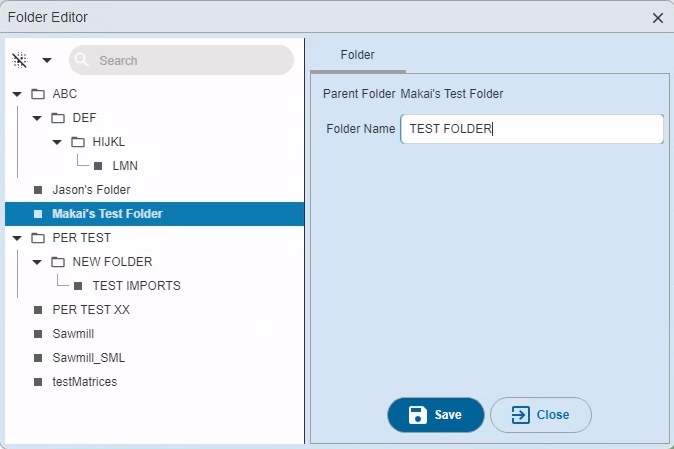
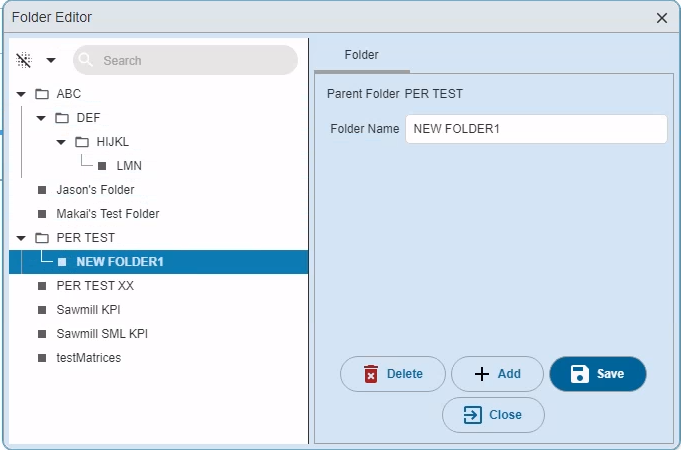
matrix review, edits, image changes

diff --git a/docs/kanoa-ops-analysis/kpi-matrix.md b/docs/kanoa-ops-analysis/kpi-matrix.md
@@ -11,22 +11,23 @@ The KPI Matrix functionality is a tool to provide insight to production KPIs.  T
 ![kpi-matrix](/img/kpi-matrix/KPIMatrixView.png)
 
 ## Login
-In upper right corner - click login icon.
-Use your ID and Password to log in to the application.
+To login, in the upper right corner - click the login icon.
+Use your ID and Password to login to the application.
 
 
 ![kpi-matrix](/img/kpi-matrix/UpperRightMenu.png)
 
 ### User Permissions
-Once logged in, you can hover over the login icon and see your current roles.
+Once logged in, you can hover over the login icon and see your current roles for the application.
 
 
 ![kpi-matrix](/img/kpi-matrix/MatrixPermissions.png)
 
 ### Logout
-Click the logout icon next to the login icon to log out of the application.
+Click the logout icon next to the login icon to logout of the application.
 
 ### Roles & Permissions
+The roles granted to the users of the application have different permissions. 
 
 #### Division Admin
 The Division Admin can view all matrices, both public and private. They can create, edit and delete their own matrices.
@@ -45,35 +46,34 @@ The Guest can only view public matrices.  They have no create, edit or delete pe
 ## Create and Edit a KPI Matrix
 
 ### Matrix Editor
-Open the left menu and click the Matrix Editor.  This will open a view to the Folder editor and the Matrix creator and editor.
+To create or edit a Matrix - start by open the left menu and click the Matrix Editor.  This will open a view to the Matrix editor.
 
-![kpi-matrix](/img/kpi-matrix/KPIMatrixView.png)
+![kpi-matrix](/img/kpi-matrix/KPIMatrixEditor.png)
+
 
 #### Folder Editor
-Open the folder editor by clicking the add folder icon (+) above folder structure. 
-In the folder editor - select folder to edit or the location of the new folder.  Click Add button to add a new folder.  
-Enter info - set folder name, color, Roles if applicable. Click Save button.
-Delete folders - select folder to delete, click Delete Icon.
-
-Drag drop a matrix from one folder to another.  Select the matrix, hold the left mouse button until it is in the desired folder and then  release the mouse button.
+Folders are managed in the Folder Editor - the user can create, edit and delete folders. Click the  + icon above the matrix tree structure for the pop-up window with the Folder Editor:
+- Add folder - in the Folder Editor, select the parent folder, click the Add button, enter the folder name and Save.
+- Edit folder - in the Folder Editor, select the folder to edit and make the required changes. Then Save the changes.
+- Delete folder - in the Folder Editor, select the folder to delete, click the Delete button. 
 
 ![kpi-matrix](/img/kpi-matrix/FolderEditor.png)
 
+
 #### Create / Edit a Matrix
-* Create a new Matrix - select a folder for the location of the Matrix.  Fill the matrix info - name, folder, icon and sort order.  Click the Enabled box to enable data to flow to the matrix so it can be viewed.  Save the Matrix using the Save icon in the top menu.
-
-* Edit an existing Matrix - select the Matrix, change the info of the Matrix as needed (Name, Icon, Color, Sort Order). 
-
-* Matrix Groups - Organize the Matrix data by setting up groups.  Minimum one group must be created.  Create a name for each group, set background color for group.
-
-* Add data tags - Click the selector tree for data tags.  Each data tag selected will be added to the group.  Once done with selection - close the selector window with the Close button at the bottom.
-
-* Delete data tags - Select a data tag and click the Delete icon in the left menu. Confirm.
-
+- Create a new Matrix - select a folder for the location of the Matrix.  Fill the matrix info - name, folder, icon and sort order.  Click the Enabled box to enable data to flow to the matrix so it can be viewed.  Save the Matrix using the Save icon in the top menu.
+- Edit an existing Matrix - select the Matrix, change the info of the Matrix as needed (Name, Icon, Color, Sort Order). 
+- Matrix Groups - Organize the Matrix data by setting up groups.  Minimum one group must be created.  Create a name for each group, set background color for group.
+- Add data tags - Click the selector tree for data tags.  Each data tag selected will be added to the group.  Once done with selection - close the selector window with the Close button at the bottom.
+- Delete data tags - Select a data tag and click the Delete icon in the left menu. Confirm.
+- Drag and Drop - Drag and drop a matrix from one folder to another.  Select the matrix, hold the left mouse button until it is in the desired folder and then release the mouse button.
 
 ## View a Matrix
 
 ### Matrix view
+
+In the KPI Matrix view - you will be able to see the data from the selected Tags.  There are options for data intervals, how to group the data, and for how the data will be presented.
+
 
 ![kpi-matrix](/img/kpi-matrix/ViewMatrix.png)
 
@@ -91,18 +91,24 @@ Drag drop a matrix from one folder to another.  Select the matrix, hold the left
 
 
 ### Top Menu
-* Matrix Selector - Select the Matrix.  Use the search function to search in folders.
+- Matrix Selector - select the Matrix to be presented.  Use the search function to search in folders.
+- Data period - select the time period for the data to be presented - choices are today, yesterday, this week, last week, this month, etc.  Or set a custom time period.  Set the start date and time and end date and time.
+- Data Interval - select the data interval for the aggregated data.  The data is aggregated in intervals of 1 hr, 30 mins, 15 mins
+- Group by Shift or Run - this to sort by a specific Shift or Run.
+- Group by Matrix Group. This can be utilized if the Matrix data is organized by separate Matrix groups.
+- Ignore Zeros - when this is checked, zero values will be ignored.  If all values for a tag are zero, the tag will not be displayed.
+- Bradley Mode - automatically yodate the table data whenever a filter parameter changes.
+- Auto Refresh - this will automatically update the data table every 5 minutes when checked.
+- Item Path - this will show the full data path when checked
+- Item Info - this will show the data source (tag, calculation) and default aggregation mode when enabled.
+- Statistical Summary - summarized values for the chosen data will be presented when enabled.
+- MES Specs - when enabled this will show the data items specifications set for control limits, LCL and UCL.  When no limits are set, they are calculated from data values.
 
-* Data period - Select the time period for the data to be plotted - choices are today, yesterday, this week, last week, this month, etc.  Or set a custom time period.  Set the start date and time and end date and time.
-
-* Data Interval - the data is aggregated in intervals of 1 hr, 30 mins, 15 mins
-
-* Group by Shift or Run.  This is an optional field - it can be utilized to sort by a specific Shift or Run.
-
-* Group by Matrix Group. This can be utilized if the Matrix data is organized by separate Matrix groups.
+### Alerts
+- KPI Matrix data alerts - alerts are set when data are outside calculated or spec control limits.  Data values outside limits are color coded in the table.
 
 
-### Left Menu
+### Left Menu icons
 
 #### Clear table
 Click this icon to clear the displayed data.
@@ -142,7 +148,7 @@ The Tag Browser provides a view to the database tag history - to review tag data
 ![kpi-matrix](/img/kpi-matrix/TagBrowserView.png)
 
 
-### Viewer
+###Tag History Viewer
 Select Tag History in Left Navigation to open the Tag History Viewer
 The usage of the browser itself is documented at Inductive Automation. 
 https://docs.inductiveautomation.com/docs/8.1/appendix/components/perspective-components/perspective-chart-palette/perspective-power-chart
